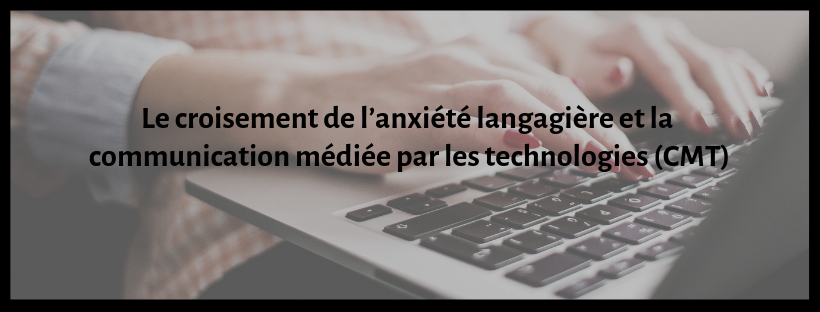
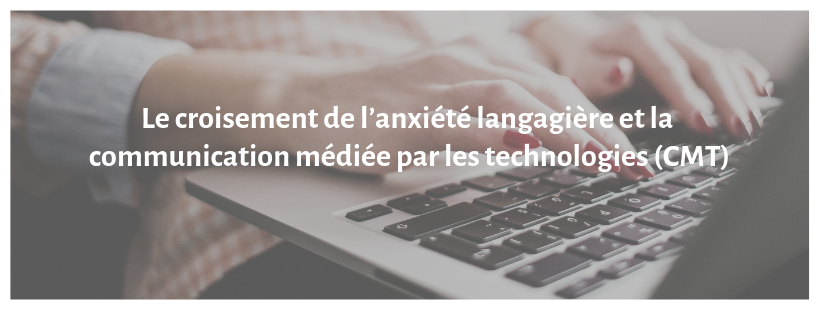
Swapping Photos

Changed region(s): [[0.0, 0.0, 1.0, 1.0], [0.0915, 0.4615, 0.9146, 0.5481], [0.1524, 0.3462, 0.8232, 0.4327]]

diff --git a/views/francesca.html b/views/francesca.html
@@ -24,9 +24,29 @@
       </div>
       <div>
       <br></br>
-      <p style="text-align:center;"> <img src="/projet/styling/img/FJH1.png" width="100%" height="auto"></p>
-        <br></br>
-        
+      <p style="text-align:center;"> <img src="/projet/styling/img/FJH2.png" width="100%" height="auto"></p>
+      <br></br>
+      <p> Comme l’anxiété langagière est un état relié à l’apprentissage des langues qui affecte la plupart des apprenants de langues secondes et étrangères (Horwitz et al., 1986 ; Jebali, 2018), je trouvais le principe de l’étude de Jebali (2018) très pertinente lorsque je commençais à aborder le rapport entre l’anxiété langagière et la communication médiée par la technologie (CMT). Cependant, la méthodologie de son étude m’a piqué l’intérêt puisque je n’aurais pas eu l’impression qu’utiliser la production des pronoms clitiques pour mesurer le taux d’anxiété langagière des apprenants de français langue seconde (FL2) permettra un aperçu complet de cet obstacle quant à la communication. </p>
+
+      <p> D’ailleurs, l’auteur suscite la production des pronoms clitiques selon deux types de tâches – la tâche traditionnelle, où l’apprenant est montré des images représentant des personnes qui font des actions aux objets, et la tâche actionnelle, où l’expérimentateur performe une action sur un objet tangible devant l’apprenant. Dans les deux situations, après avoir aperçu l’action, l’expérimentateur pose une question qui la concerne en estimant la production d’un pronom clitique de la part de l’apprenant comme réponse. D’après Pirvulescu et Hill (2012), le fait d’inclure les deux types de tâches minimise le risque d’omission du pronom clitique. Néanmoins, cette dimension de l’étude me semble problématique puisque l’accent est mis sur la tâche qui suscite le plus de production des pronoms clitiques ainsi que l’environnement qui est le moins anxiogène pour l’apprenant de FL2. Je me demande alors, quel est l’objectif principal de cette recherche ?</p>
+
+      <p> Cette étude considère aussi l’anxiété langagière d’une façon plus globale dans le sens qu’elle n’isole pas l’appréhension à communiquer (une composante de l’anxiété langagière qui est presque toujours isolée dans les études précédentes) des deux autres composantes – la crainte d’une évaluation négative et l’anxiété liée aux examens (Horwitz et al., 1986 ; Spetz, 2018). Bien que les tâches ne fassent pas partie d’un examen, l’activité proposée aux apprenants a l’air d’un test de compréhension orale selon le style question-réponse avec un interlocuteur inconnu. Ainsi, puisque l’activité n’est pas entre paires, l’expérimentateur, qui représente une tierce personne, peut inciter une crainte d’une évaluation négative parmi les apprenants de FL2. </p>
+
+      <p> Lorsqu’on examine la CMT d’une façon plus probante, la communication par Skype peut être jugée trop semblable à la communication face à face. Les deux moyens de communication comprennent une conversation audiovisuelle avec un interlocuteur, la différence principale étant la présence ou l’absence d’un écran. Pourtant, il est surprenant que Jebali (2018) souligne que la CMT fournit l’environnement le moins anxiogène pour l’apprenant selon l’échelle FLCAS (développée par Horwitz et al. en 1986) et la production des pronoms clitiques incités par des tâches actionnelles. Je me demande si c’était plutôt la tâche qui contribuait à une réduction d’anxiété langagière parmi les apprenants au lieu de la CMT elle-même. </p>
+
+      <p> Toutefois, l’étude de Jebali (2018) m’a fait réfléchir sur plusieurs aspects du phénomène de l’anxiété langagière. D’abord, je me suis demandée comme apprenante de FL2 moi-même, avais-je de l’anxiété langagière en particulier par rapport à la production des pronoms clitiques à l’oral ?  De plus, il m’intéresse de savoir si les études précédentes éclairaient que la CMT est plus bénéfique pour un type de tâche plutôt qu’un autre. Par exemple, aurait-il une différence plus significative entre la CMT et la communication face à face lorsque la discussion soit libre au lieu de centrée sur une tâche précise ? De toute façon, cette étude m’a initié à faire une recherche plus approfondie sur la relation entre la CMT et l’anxiété langagière dans des contextes divers, selon les variables différentes. </p>
+
+      <p> <H2> <b> Références </b> </H2> </p>
+      <ul>
+        <li>Horwitz, E. K., Horwitz, M. B. & Cope, J. (1986). Foreign-Language Classroom Anxiety. <i> Modern Language Journal, 70 </i>(2), 125–132. Récupéré de https://www.jstor.org/stable/327317?seq=1#page_scan_tab_contents</li>
+        <li>Jebali, A. (2018). Anxiété langagière, communication médiée par les technologies et élicitation des clitiques objets du français L2. <i>Apprentissage des Langues et Systèmes d’Information et de Communication, 21 </i>(1). https://doi.org/10.4000/alsic.3164 </li>
+        <li>Pirvulescu, M. et Hill, V. (2012). Object clitic omission in French-speaking children: effects of the elicitation task. <i>Language Acquisition, 19 </i>(1), 73-81.</li>
+        <li>Spetz, H. (2018). <i>L’anxiété langagière et la production orale : Une étude sur les étudiants suédois de français langue étrangère à l’université</i> (Thèse de mémoire, Université de Stockholm, Stockholm, Suède). Récupéré de https://su.diva-portal.org/smash/get/diva2:1222877/FULLTEXT01.pdf </li>
+      </ul>
+    </div>
+    <div>
+
+
     </div>
   </body>
 </html>
